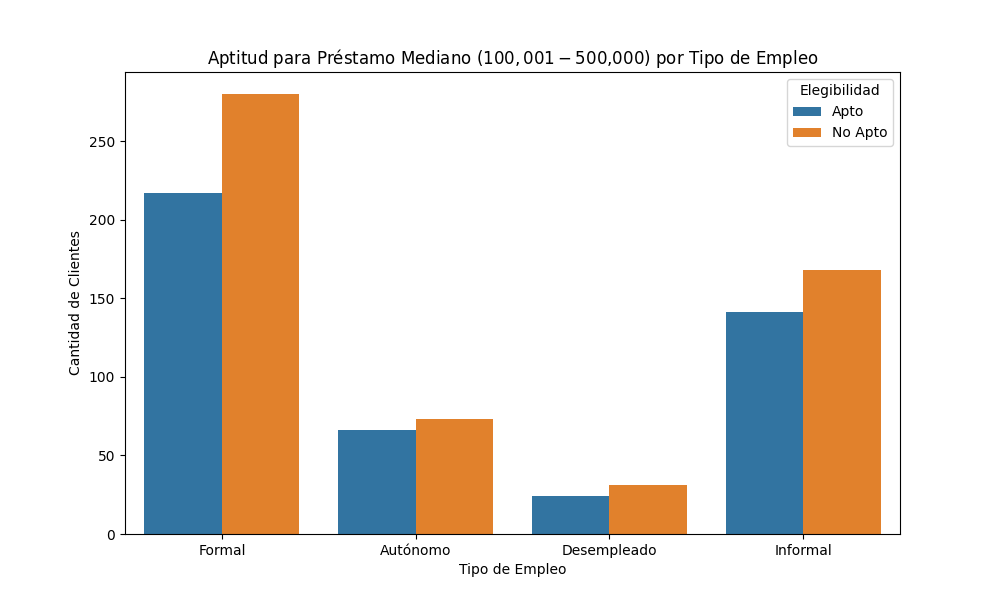
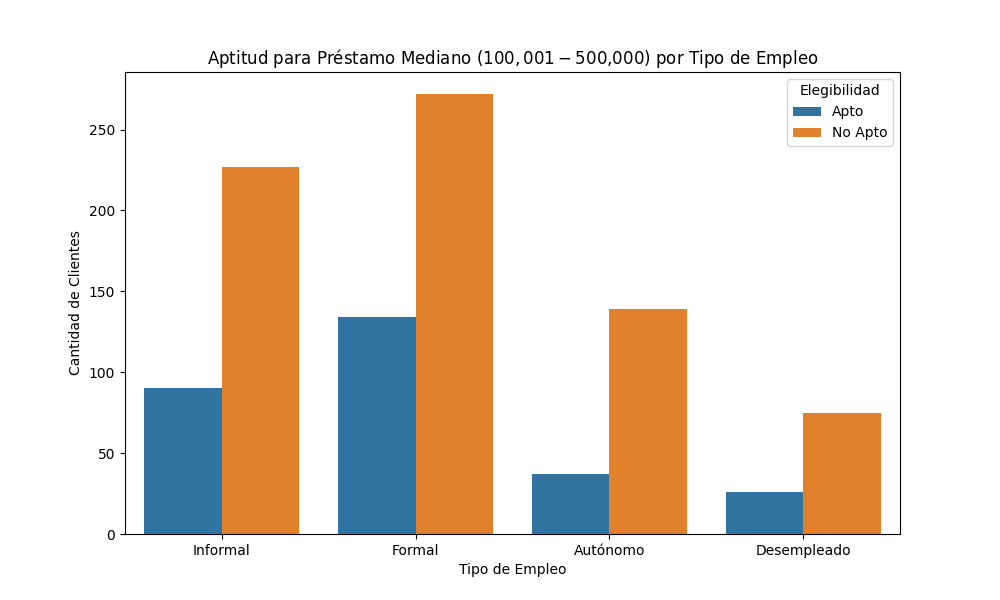
updated correlation matrix and adjusted loan graphs

diff --git a/explore_data.py b/explore_data.py
@@ -11,12 +11,18 @@ sns.histplot(df['Ingresos_Mensuales'], bins=50)
 plt.title('Distribución de Ingresos Mensuales (Promedio Feb-Abr 2025, Argentina)')
 plt.xlabel('Ingresos Mensuales ($ pesos argentinos)')
 plt.ylabel('Cantidad de Clientes')
-plt.savefig('income_distribution_feb_apr2025.png')  # Nombre ajustado
+plt.savefig('income_distribution_feb_apr2025.png')
 plt.show()
+
+# Paleta de colores personalizada para todos los gráficos
+custom_palette = {'Apto': 'tab:blue', 'No Apto': 'tab:orange'}
 
 # Gráfico de elegibilidad para préstamo pequeño
 plt.figure(figsize=(10, 6))
-sns.countplot(x='Tipo_Empleo', hue=df['Apto_Prestamo_Pequeño'].map({1: 'Apto', 0: 'No Apto'}), data=df)
+sns.countplot(x='Tipo_Empleo', 
+              hue=df['Apto_Prestamo_Pequeño'].map({1: 'Apto', 0: 'No Apto'}), 
+              data=df,
+              palette=custom_palette)
 plt.title('Aptitud para Préstamo Pequeño ($30,000-$100,000) por Tipo de Empleo')
 plt.xlabel('Tipo de Empleo')
 plt.ylabel('Cantidad de Clientes')
@@ -26,7 +32,10 @@ plt.show()
 
 # Gráfico de elegibilidad para préstamo mediano
 plt.figure(figsize=(10, 6))
-sns.countplot(x='Tipo_Empleo', hue=df['Apto_Prestamo_Mediano'].map({1: 'Apto', 0: 'No Apto'}), data=df)
+sns.countplot(x='Tipo_Empleo', 
+              hue=df['Apto_Prestamo_Mediano'].map({1: 'Apto', 0: 'No Apto'}), 
+              data=df,
+              palette=custom_palette)
 plt.title('Aptitud para Préstamo Mediano ($100,001-$500,000) por Tipo de Empleo')
 plt.xlabel('Tipo de Empleo')
 plt.ylabel('Cantidad de Clientes')
@@ -36,7 +45,10 @@ plt.show()
 
 # Gráfico de elegibilidad para préstamo elevado
 plt.figure(figsize=(10, 6))
-sns.countplot(x='Tipo_Empleo', hue=df['Apto_Prestamo_Elevado'].map({1: 'Apto', 0: 'No Apto'}), data=df)
+sns.countplot(x='Tipo_Empleo', 
+              hue=df['Apto_Prestamo_Elevado'].map({1: 'Apto', 0: 'No Apto'}), 
+              data=df,
+              palette=custom_palette)
 plt.title('Aptitud para Préstamo Elevado ($500,001-$2,000,000) por Tipo de Empleo')
 plt.xlabel('Tipo de Empleo')
 plt.ylabel('Cantidad de Clientes')
